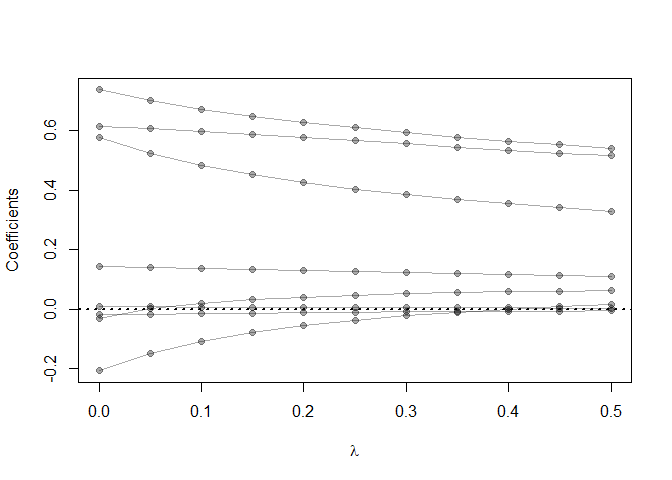
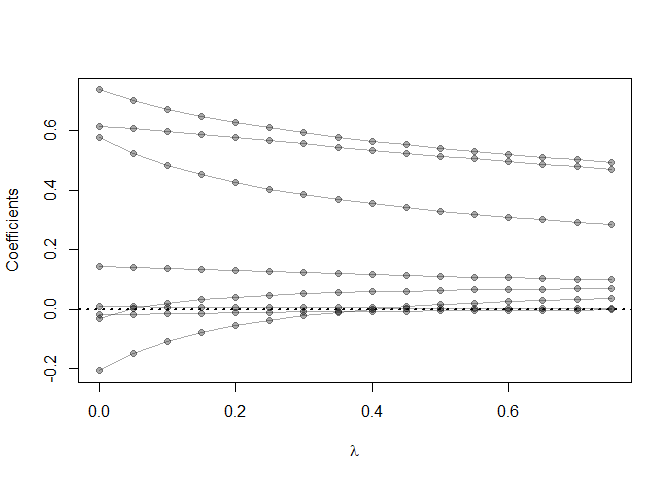
first resubmit hw2

diff --git a/Homework2/Homework2.md b/Homework2/Homework2.md
@@ -43,51 +43,6 @@ read in data
 data('prostate')
 ```
 
-correlation coeficients
-
-``` r
-cor(prostate)
-```
-
-    ##              lcavol      lweight       age         lbph         svi
-    ## lcavol   1.00000000  0.280521386 0.2249999  0.027349703  0.53884500
-    ## lweight  0.28052139  1.000000000 0.3479691  0.442264395  0.15538491
-    ## age      0.22499988  0.347969112 1.0000000  0.350185896  0.11765804
-    ## lbph     0.02734970  0.442264395 0.3501859  1.000000000 -0.08584324
-    ## svi      0.53884500  0.155384906 0.1176580 -0.085843238  1.00000000
-    ## lcp      0.67531048  0.164537146 0.1276678 -0.006999431  0.67311118
-    ## gleason  0.43241706  0.056882099 0.2688916  0.077820447  0.32041222
-    ## pgg45    0.43365225  0.107353790 0.2761124  0.078460018  0.45764762
-    ## lpsa     0.73446033  0.433319385 0.1695928  0.179809404  0.56621822
-    ## train   -0.04654347 -0.009940651 0.1776155 -0.029939957  0.02679950
-    ##                  lcp     gleason      pgg45        lpsa        train
-    ## lcavol   0.675310484  0.43241706 0.43365225  0.73446033 -0.046543468
-    ## lweight  0.164537146  0.05688210 0.10735379  0.43331939 -0.009940651
-    ## age      0.127667752  0.26889160 0.27611245  0.16959284  0.177615517
-    ## lbph    -0.006999431  0.07782045 0.07846002  0.17980940 -0.029939957
-    ## svi      0.673111185  0.32041222 0.45764762  0.56621822  0.026799505
-    ## lcp      1.000000000  0.51483006 0.63152825  0.54881317 -0.037427296
-    ## gleason  0.514830063  1.00000000 0.75190451  0.36898681 -0.044171456
-    ## pgg45    0.631528246  0.75190451 1.00000000  0.42231586  0.100516371
-    ## lpsa     0.548813175  0.36898681 0.42231586  1.00000000 -0.033889743
-    ## train   -0.037427296 -0.04417146 0.10051637 -0.03388974  1.000000000
-
-``` r
-cor(prostate, prostate$lpsa)
-```
-
-    ##                [,1]
-    ## lcavol   0.73446033
-    ## lweight  0.43331939
-    ## age      0.16959284
-    ## lbph     0.17980940
-    ## svi      0.56621822
-    ## lcp      0.54881317
-    ## gleason  0.36898681
-    ## pgg45    0.42231586
-    ## lpsa     1.00000000
-    ## train   -0.03388974
-
 training and testing sets
 
 ``` r
@@ -101,6 +56,31 @@ prostate_test <- prostate %>%
   filter(train == FALSE) %>% 
   select(-train)
 ```
+
+correlation coeficients
+
+``` r
+cor(prostate_train[1:8])
+```
+
+    ##             lcavol    lweight       age        lbph        svi         lcp
+    ## lcavol  1.00000000 0.30023199 0.2863243  0.06316772  0.5929491  0.69204308
+    ## lweight 0.30023199 1.00000000 0.3167235  0.43704154  0.1810545  0.15682859
+    ## age     0.28632427 0.31672347 1.0000000  0.28734645  0.1289023  0.17295140
+    ## lbph    0.06316772 0.43704154 0.2873464  1.00000000 -0.1391468 -0.08853456
+    ## svi     0.59294913 0.18105448 0.1289023 -0.13914680  1.0000000  0.67124021
+    ## lcp     0.69204308 0.15682859 0.1729514 -0.08853456  0.6712402  1.00000000
+    ## gleason 0.42641407 0.02355821 0.3659151  0.03299215  0.3068754  0.47643684
+    ## pgg45   0.48316136 0.07416632 0.2758057 -0.03040382  0.4813577  0.66253335
+    ##            gleason       pgg45
+    ## lcavol  0.42641407  0.48316136
+    ## lweight 0.02355821  0.07416632
+    ## age     0.36591512  0.27580573
+    ## lbph    0.03299215 -0.03040382
+    ## svi     0.30687537  0.48135774
+    ## lcp     0.47643684  0.66253335
+    ## gleason 1.00000000  0.75705650
+    ## pgg45   0.75705650  1.00000000
 
 linear model fitting lpsa outcome
 
@@ -136,7 +116,7 @@ x_inp <- model.matrix(form, data=prostate_train)
 y_out <- prostate_train$lpsa
 
 #?glmnet()
-fit_ridge <- glmnet(x=x_inp, y=y_out, lambda= seq(0.5,0,-0.05), alpha = 0)
+fit_ridge <- glmnet(x=x_inp, y=y_out, lambda= seq(0.75,0,-0.05), alpha = 0)
 #print(fit_ridge$beta)
 ```
 
@@ -160,7 +140,7 @@ abline(h=0, lty=3, lwd=2)
 ## functions to compute testing/training error with glmnet
 error_ridge <- function(dat, fit, lam, form, loss=L2_loss) {
   x_inp <- model.matrix(form, data=dat)
-  y_out <- dat$lcavol
+  y_out <- dat$lpsa
   y_hat <- predict(fit, newx=x_inp, s=lam)  ## see predict.elnet
   mean(loss(y_out, y_hat))
 }
